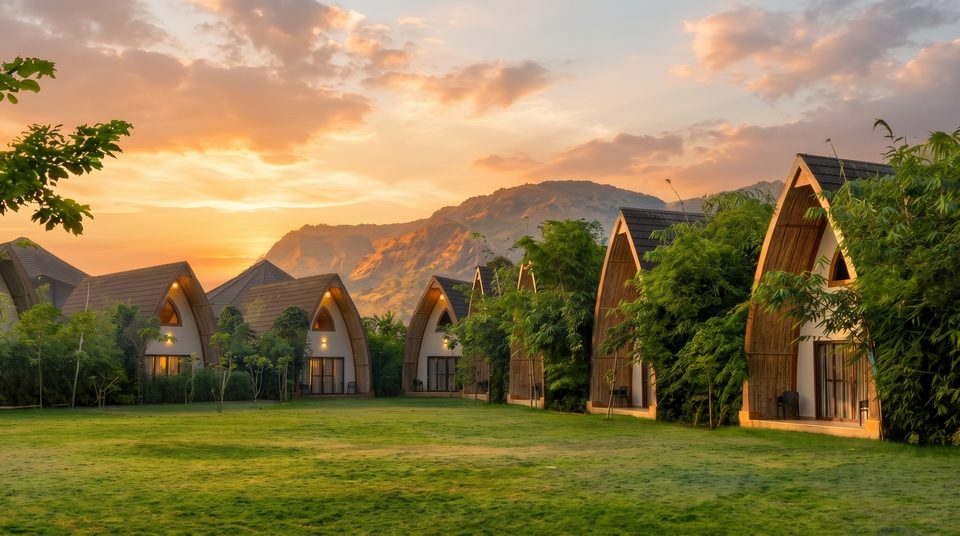
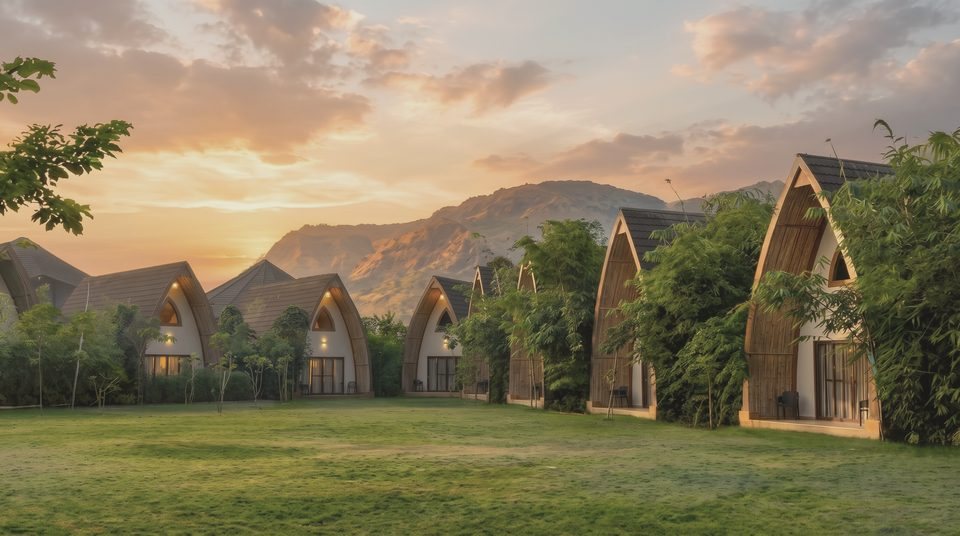
Venue photograph re-graded to sit in the site's muted palette

diff --git a/index.html b/index.html
@@ -610,7 +610,7 @@
 
         <div class="facts__art reveal">
           <figure class="photo photo--wide">
-            <img class="photo__img" src="media/images/ananta-1600.jpg" srcset="media/images/ananta-960.jpg 960w, media/images/ananta-1600.jpg 1600w" sizes="(max-width: 860px) 92vw, 40vw" width="1600" height="893" alt="The villas at Ananta, Ajabgarh, at sunset, with the Aravalli hills behind" loading="lazy" decoding="async">
+            <img class="photo__img" src="media/images/ananta-1600.jpg?v=2" srcset="media/images/ananta-960.jpg?v=2 960w, media/images/ananta-1600.jpg?v=2 1600w" sizes="(max-width: 860px) 92vw, 40vw" width="1600" height="893" alt="The villas at Ananta, Ajabgarh, at sunset, with the Aravalli hills behind" loading="lazy" decoding="async">
           </figure>
         </div>
       </div>
